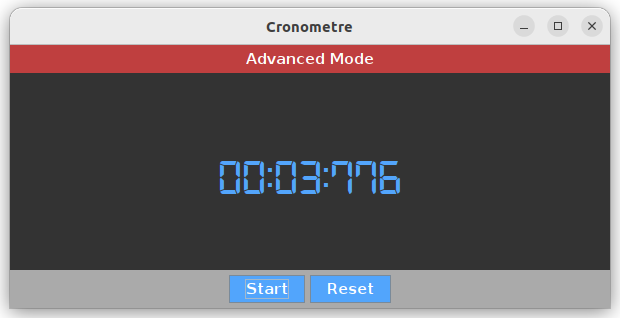
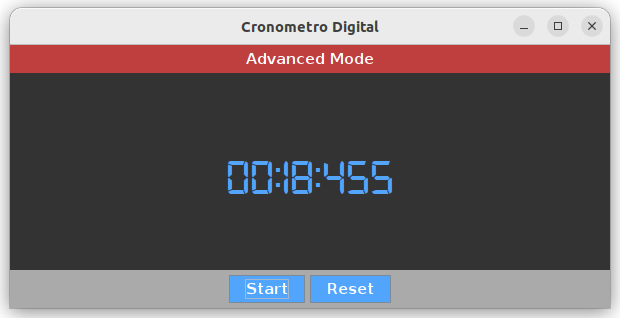
Cambios: - Nombre de proyecto en Eclipse Java IDE cambiado a Cronometro_Digital. - Nombre de la ventana Cronometro cambiado a 'Cronometro Digital'. - Logotipo actualizado en README_img/Cronometro_Digital.png y src/font/cronometro.png. - Actualizado README.md con apartado final 'Agradecimientos'.

Changed region(s): [[0.3371, 0.5094, 0.6435, 0.6226], [0.3677, 0.0566, 0.6129, 0.1132]]

diff --git a/src/cronometro/Cronometro.java b/src/cronometro/Cronometro.java
@@ -1,4 +1,4 @@
-package cronometre;
+package cronometro;
 
 import java.awt.EventQueue;
 
@@ -22,7 +22,7 @@ import java.io.IOException;
 import java.awt.Toolkit;
 import java.awt.Cursor;
 
-public class Cronometre {
+public class Cronometro {
 
 	private JFrame frame;
 	private javax.swing.Timer timer;
@@ -36,7 +36,7 @@ public class Cronometre {
 		EventQueue.invokeLater(new Runnable() {
 			public void run() {
 				try {
-					Cronometre window = new Cronometre();
+					Cronometro window = new Cronometro();
 					window.frame.setVisible(true);
 				} catch (Exception e) {
 					e.printStackTrace();
@@ -48,7 +48,7 @@ public class Cronometre {
 	/**
 	 * Create the application.
 	 */
-	public Cronometre() {
+	public Cronometro() {
 		initialize();
 	}
 
@@ -63,10 +63,10 @@ public class Cronometre {
 		frame.setCursor(Cursor.getPredefinedCursor(Cursor.DEFAULT_CURSOR));
 		frame.setForeground(new Color(204, 204, 204));
 		frame.setBackground(new Color(204, 204, 204));
-		frame.setIconImage(Toolkit.getDefaultToolkit().getImage(Cronometre.class.getResource("/font/cronometro.png")));
+		frame.setIconImage(Toolkit.getDefaultToolkit().getImage(Cronometro.class.getResource("/font/cronometro.png")));
 		frame.setBounds(100, 100, 600, 300);
 		frame.setDefaultCloseOperation(JFrame.EXIT_ON_CLOSE);
-		frame.setTitle("Cronometre");
+		frame.setTitle("Cronometro Digital");
 		frame.getContentPane().setLayout(new BorderLayout(0, 0));
 		
 		JPanel panel = new JPanel();
